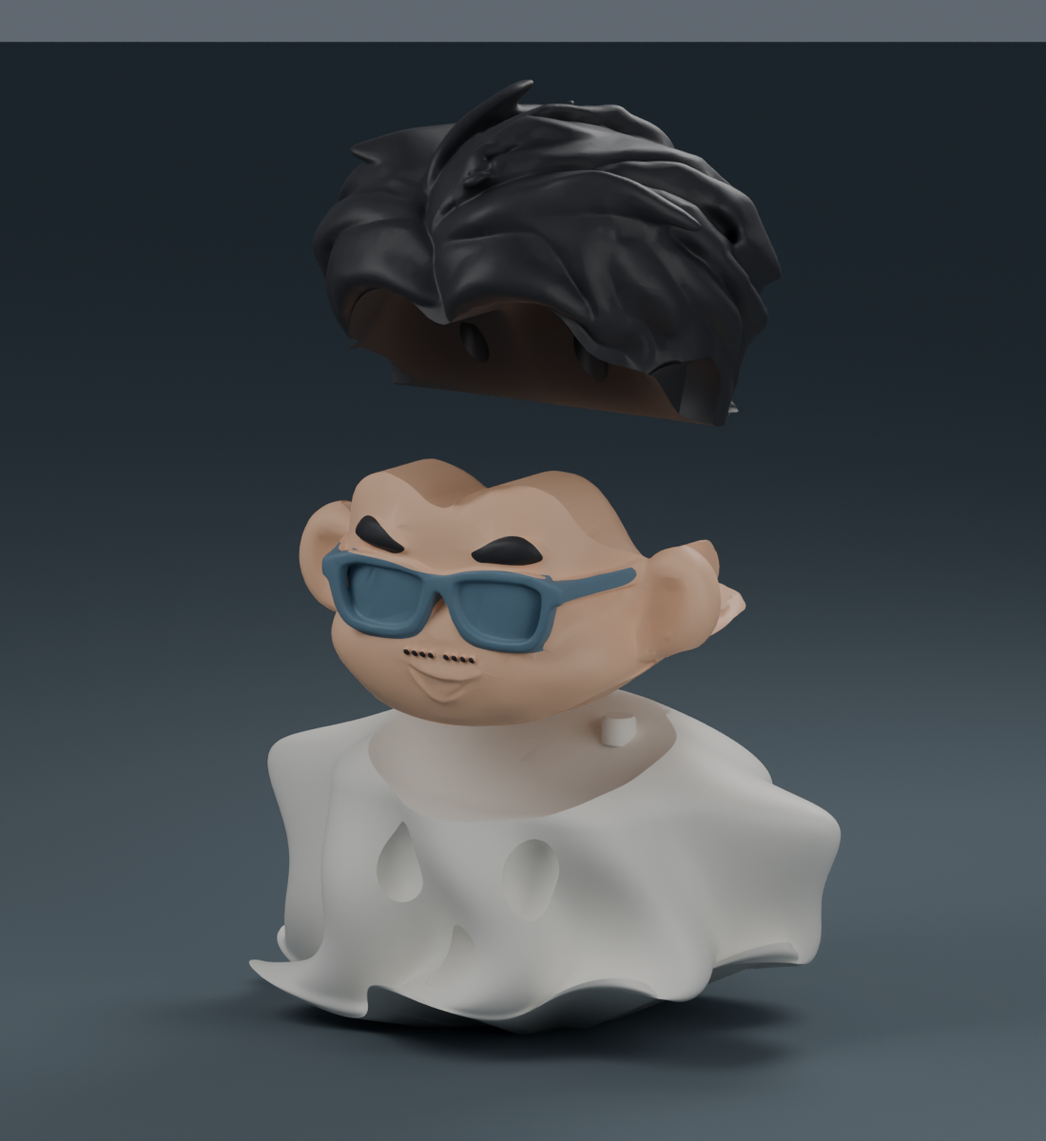
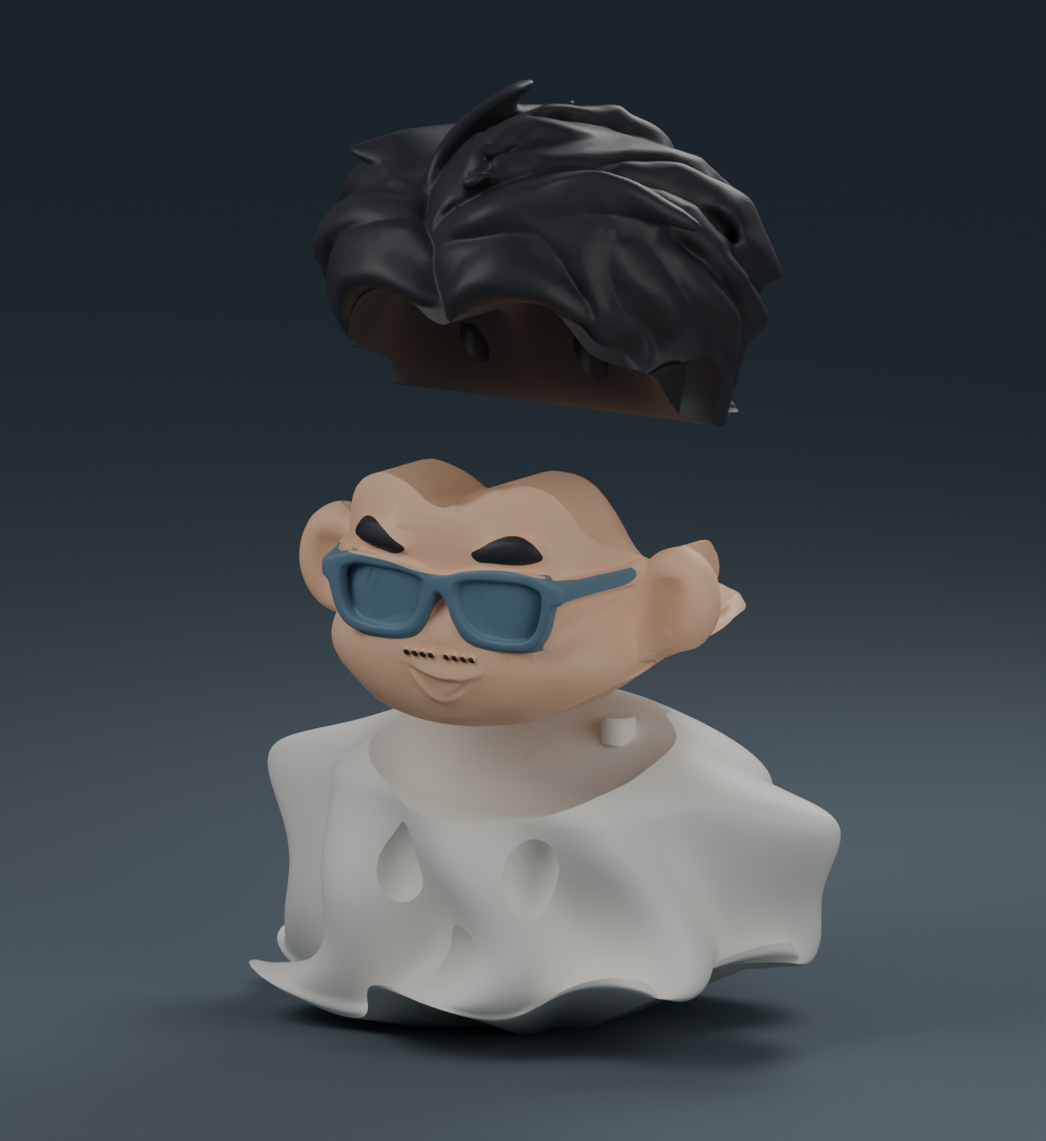
Remove render clipping bands and refresh preview image URLs

Changed region(s): [[0.0, 0.0, 1.0, 0.0617]]

diff --git a/HelloKitty_組裝說明.html b/HelloKitty_組裝說明.html
@@ -1,1 +1,1 @@
-<!doctype html><html lang="zh-Hant"><head><meta charset="utf-8"><meta name="viewport" content="width=device-width,initial-scale=1"><title>Hello Kitty 造型小陳晉｜三件組裝</title><link rel="stylesheet" href="store.css"><style>main{max-width:1120px;padding:36px 24px 60px}h1{font-family:var(--serif);font-size:38px;line-height:1.5}.preview{display:grid;grid-template-columns:1fr 1fr;gap:24px;margin:28px 0}figure{margin:0}figure img{width:100%;border-radius:12px}figcaption{font-size:13px;padding:12px 0}.options{background:#e9ecdf;padding:25px;margin:30px 0}.files{display:grid;grid-template-columns:repeat(3,1fr);gap:20px}article{background:white;border-radius:12px;overflow:hidden}article img{width:100%}article>div{padding:20px}h3{font-size:17px}article p{font-size:13px}.notes{max-width:75ch;margin:36px 0}@media(max-width:760px){h1{font-size:28px}.preview,.files{grid-template-columns:1fr}}</style></head><body><main><a href="index.html">← 返回作品總覽</a><h1>Hello Kitty 造型的小陳晉。</h1><p>黑色頭髮加白色貓耳、黃上衣與藍吊帶裝，保留熟悉的臉。高約 10 公分，三件組裝。</p><section class="preview"><figure><img src="assets/hello_kitty_100mm/ears-assembled.png" alt="Hello Kitty 造型小陳晉實際模型"><figcaption>原配色的實際模型渲染。省時版需自行補色，圖片不代表單色檔會自動呈現多色。</figcaption></figure><figure><img src="assets/hello_kitty_100mm/ears-exploded.png" alt="身體、臉與黑髮與貓耳三件分解"><figcaption>身體 → 臉 → 黑髮與貓耳。既有的原色三件版臉部可沿用。</figcaption></figure></section><section class="options"><h2>選一種列印方式</h2><p><strong>保留原配色：01＋02＋03，約 26 小時 49 分。</strong>三張盤都需要多色列印與擦料塔。</p><p><strong>省時、自己補色：04＋02＋05，約 12 小時 9 分。</strong>身體與頭髮與貓耳單色印出；只有臉盤換色。</p><p>已有臉部時，單印 04＋05 約 5 小時 5 分。每個零件只選一種版本即可。</p></section><h2>模型下載</h2><div class="files"><article><img src="assets/hello_kitty_100mm/ears-plate_01.png" alt="01_吊帶裝與手腳_三色合印.3mf實際列印方向"><div><h3>吊帶裝與手腳_三色合印.3mf</h3><p>白色手腳、藍色吊帶裝與黃色上衣，三色印成一件。</p><p>約 13 小時 8 分 · 241.04 g</p><a class="primary" href="HelloKitty_01_%E5%90%8A%E5%B8%B6%E8%A3%9D%E8%88%87%E6%89%8B%E8%85%B3_%E4%B8%89%E8%89%B2%E5%90%88%E5%8D%B0.3mf" download>下載 3MF</a></div></article><article><img src="assets/hello_kitty_100mm/ears-plate_02.png" alt="02_臉_原色三色合印.3mf實際列印方向"><div><h3>臉_原色三色合印.3mf</h3><p>膚色臉、黑色眉毛與小鬍子、藍灰色眼鏡，三色印成一件。可沿用原色三件版的臉。</p><p>約 7 小時 4 分 · 116.55 g</p><a class="primary" href="HelloKitty_02_%E8%87%89_%E5%8E%9F%E8%89%B2%E4%B8%89%E8%89%B2%E5%90%88%E5%8D%B0.3mf" download>下載 3MF</a></div></article><article><img src="assets/hello_kitty_100mm/ears-plate_03.png" alt="03_黑髮與貓耳_兩色合印.3mf實際列印方向"><div><h3>黑髮與貓耳_兩色合印.3mf</h3><p>原本黑色頭髮與白色貓耳，兩色印成一件。</p><p>約 6 小時 37 分 · 105.63 g</p><a class="primary" href="HelloKitty_03_%E9%BB%91%E9%AB%AE%E8%88%87%E8%B2%93%E8%80%B3_%E5%85%A9%E8%89%B2%E5%90%88%E5%8D%B0.3mf" download>下載 3MF</a></div></article><article><img src="assets/hello_kitty_100mm/ears-plate_04.png" alt="04_吊帶裝與手腳_省時單色版.3mf實際列印方向"><div><h3>吊帶裝與手腳_省時單色版.3mf</h3><p>取代 01：整件以藍色印出。白色手腳、鈕扣與黃色上衣需自行補色。</p><p>約 1 小時 40 分 · 23.79 g</p><a class="primary" href="HelloKitty_04_%E5%90%8A%E5%B8%B6%E8%A3%9D%E8%88%87%E6%89%8B%E8%85%B3_%E7%9C%81%E6%99%82%E5%96%AE%E8%89%B2%E7%89%88.3mf" download>下載 3MF</a></div></article><article><img src="assets/hello_kitty_100mm/ears-plate_05.png" alt="05_黑髮與貓耳_省時單色版.3mf實際列印方向"><div><h3>黑髮與貓耳_省時單色版.3mf</h3><p>取代 03：整件以黑色印出。白色貓耳需自行補色。</p><p>約 3 小時 25 分 · 42.56 g</p><a class="primary" href="HelloKitty_05_%E9%BB%91%E9%AB%AE%E8%88%87%E8%B2%93%E8%80%B3_%E7%9C%81%E6%99%82%E5%96%AE%E8%89%B2%E7%89%88.3mf" download>下載 3MF</a></div></article></div><section class="notes"><h2>組裝與列印</h2><p>零件冷卻後拆除支撐並清理定位孔，臉對準身體定位榫向下放入，再將黑髮與貓耳向下放入。先試配，確認順暢再少量點膠。</p><p>範例設定：Bambu Lab X1 Carbon／0.4 mm／PLA／0.16 mm 層高。每張多色盤最多三種耗材，請按顏色對應自己的 AMS 槽位。時間含清料與支撐，不含換盤、清理、上色及組裝。</p><p>模型與五盤切片檢查已通過，尚未實體試印。圖片直接來自模型；列印方向圖未顯示支撐與擦料塔。</p></section></main></body></html>
+<!doctype html><html lang="zh-Hant"><head><meta charset="utf-8"><meta name="viewport" content="width=device-width,initial-scale=1"><title>Hello Kitty 造型小陳晉｜三件組裝</title><link rel="stylesheet" href="store.css"><style>main{max-width:1120px;padding:36px 24px 60px}h1{font-family:var(--serif);font-size:38px;line-height:1.5}.preview{display:grid;grid-template-columns:1fr 1fr;gap:24px;margin:28px 0}figure{margin:0}figure img{width:100%;border-radius:12px}figcaption{font-size:13px;padding:12px 0}.options{background:#e9ecdf;padding:25px;margin:30px 0}.files{display:grid;grid-template-columns:repeat(3,1fr);gap:20px}article{background:white;border-radius:12px;overflow:hidden}article img{width:100%}article>div{padding:20px}h3{font-size:17px}article p{font-size:13px}.notes{max-width:75ch;margin:36px 0}@media(max-width:760px){h1{font-size:28px}.preview,.files{grid-template-columns:1fr}}</style></head><body><main><a href="index.html">← 返回作品總覽</a><h1>Hello Kitty 造型的小陳晉。</h1><p>黑色頭髮加白色貓耳、黃上衣與藍吊帶裝，保留熟悉的臉。高約 10 公分，三件組裝。</p><section class="preview"><figure><img src="assets/hello_kitty_100mm/ears-assembled.png" alt="Hello Kitty 造型小陳晉實際模型"><figcaption>原配色的實際模型渲染。省時版需自行補色，圖片不代表單色檔會自動呈現多色。</figcaption></figure><figure><img src="assets/hello_kitty_100mm/ears-studio-exploded.png" alt="身體、臉與黑髮與貓耳三件分解"><figcaption>身體 → 臉 → 黑髮與貓耳。既有的原色三件版臉部可沿用。</figcaption></figure></section><section class="options"><h2>選一種列印方式</h2><p><strong>保留原配色：01＋02＋03，約 26 小時 49 分。</strong>三張盤都需要多色列印與擦料塔。</p><p><strong>省時、自己補色：04＋02＋05，約 12 小時 9 分。</strong>身體與頭髮與貓耳單色印出；只有臉盤換色。</p><p>已有臉部時，單印 04＋05 約 5 小時 5 分。每個零件只選一種版本即可。</p></section><h2>模型下載</h2><div class="files"><article><img src="assets/hello_kitty_100mm/ears-plate_01.png" alt="01_吊帶裝與手腳_三色合印.3mf實際列印方向"><div><h3>吊帶裝與手腳_三色合印.3mf</h3><p>白色手腳、藍色吊帶裝與黃色上衣，三色印成一件。</p><p>約 13 小時 8 分 · 241.04 g</p><a class="primary" href="HelloKitty_01_%E5%90%8A%E5%B8%B6%E8%A3%9D%E8%88%87%E6%89%8B%E8%85%B3_%E4%B8%89%E8%89%B2%E5%90%88%E5%8D%B0.3mf" download>下載 3MF</a></div></article><article><img src="assets/hello_kitty_100mm/ears-plate_02.png" alt="02_臉_原色三色合印.3mf實際列印方向"><div><h3>臉_原色三色合印.3mf</h3><p>膚色臉、黑色眉毛與小鬍子、藍灰色眼鏡，三色印成一件。可沿用原色三件版的臉。</p><p>約 7 小時 4 分 · 116.55 g</p><a class="primary" href="HelloKitty_02_%E8%87%89_%E5%8E%9F%E8%89%B2%E4%B8%89%E8%89%B2%E5%90%88%E5%8D%B0.3mf" download>下載 3MF</a></div></article><article><img src="assets/hello_kitty_100mm/ears-plate_03.png" alt="03_黑髮與貓耳_兩色合印.3mf實際列印方向"><div><h3>黑髮與貓耳_兩色合印.3mf</h3><p>原本黑色頭髮與白色貓耳，兩色印成一件。</p><p>約 6 小時 37 分 · 105.63 g</p><a class="primary" href="HelloKitty_03_%E9%BB%91%E9%AB%AE%E8%88%87%E8%B2%93%E8%80%B3_%E5%85%A9%E8%89%B2%E5%90%88%E5%8D%B0.3mf" download>下載 3MF</a></div></article><article><img src="assets/hello_kitty_100mm/ears-plate_04.png" alt="04_吊帶裝與手腳_省時單色版.3mf實際列印方向"><div><h3>吊帶裝與手腳_省時單色版.3mf</h3><p>取代 01：整件以藍色印出。白色手腳、鈕扣與黃色上衣需自行補色。</p><p>約 1 小時 40 分 · 23.79 g</p><a class="primary" href="HelloKitty_04_%E5%90%8A%E5%B8%B6%E8%A3%9D%E8%88%87%E6%89%8B%E8%85%B3_%E7%9C%81%E6%99%82%E5%96%AE%E8%89%B2%E7%89%88.3mf" download>下載 3MF</a></div></article><article><img src="assets/hello_kitty_100mm/ears-plate_05.png" alt="05_黑髮與貓耳_省時單色版.3mf實際列印方向"><div><h3>黑髮與貓耳_省時單色版.3mf</h3><p>取代 03：整件以黑色印出。白色貓耳需自行補色。</p><p>約 3 小時 25 分 · 42.56 g</p><a class="primary" href="HelloKitty_05_%E9%BB%91%E9%AB%AE%E8%88%87%E8%B2%93%E8%80%B3_%E7%9C%81%E6%99%82%E5%96%AE%E8%89%B2%E7%89%88.3mf" download>下載 3MF</a></div></article></div><section class="notes"><h2>組裝與列印</h2><p>零件冷卻後拆除支撐並清理定位孔，臉對準身體定位榫向下放入，再將黑髮與貓耳向下放入。先試配，確認順暢再少量點膠。</p><p>範例設定：Bambu Lab X1 Carbon／0.4 mm／PLA／0.16 mm 層高。每張多色盤最多三種耗材，請按顏色對應自己的 AMS 槽位。時間含清料與支撐，不含換盤、清理、上色及組裝。</p><p>模型與五盤切片檢查已通過，尚未實體試印。圖片直接來自模型；列印方向圖未顯示支撐與擦料塔。</p></section></main></body></html>

diff --git a/粽子三件原色_組裝說明.html b/粽子三件原色_組裝說明.html
@@ -2,7 +2,7 @@
 <html lang="zh-Hant"><head><meta charset="utf-8"/><meta content="width=device-width,initial-scale=1" name="viewport"/><title>可愛陳晉｜原色三件組裝版</title><style>
 *{box-sizing:border-box}body{margin:0;background:#f5f4ee;color:#213d33;font-family:-apple-system,BlinkMacSystemFont,"PingFang TC",sans-serif;line-height:1.75}main{max-width:1120px;margin:auto;padding:42px 24px 65px}h1{font-size:clamp(32px,5vw,52px);letter-spacing:-.03em;line-height:1.2;margin:8px 0 16px}h2{font-size:26px;margin:34px 0 14px}h3{font-size:24px;margin:4px 0 10px}p{margin:9px 0}.eyebrow{font-size:13px;letter-spacing:.13em;color:#627e6f}.lead{font-size:19px}.palette{display:flex;gap:14px;flex-wrap:wrap;margin:24px 0}.chip{display:flex;align-items:center;gap:9px;background:white;padding:7px 14px;border-radius:25px}.swatch{width:18px;height:18px;border-radius:50%;border:1px solid #0001}.hero{display:grid;grid-template-columns:1fr 1fr;gap:18px}figure{margin:0;border-radius:18px;overflow:hidden;background:white}figure img{display:block;width:100%}figcaption{padding:14px 20px;color:#627569;font-size:14px}.grid{display:grid;grid-template-columns:repeat(3,1fr);gap:18px}article{background:white;border-radius:18px;overflow:hidden}article img{width:100%;display:block}.cardbody{padding:20px}.number,.muted{font-size:14px;color:#627569}a{color:#2c6650}.button{display:inline-block;background:#2c6650;color:white;text-decoration:none;padding:10px 15px;border-radius:9px}.note{padding:22px 26px;background:#e4ecdf;border-radius:14px;margin:24px 0}.steps{padding:18px 26px;background:white;border-radius:14px}li{margin:10px 0}footer{margin-top:30px;padding-top:20px;border-top:1px solid #d6dfd2}@media(max-width:760px){main{padding:28px 16px}.hero,.grid{grid-template-columns:1fr}}
 </style><meta content="可愛粽子與萬聖節南瓜小陳晉：3D 列印模型、分件組裝說明與 Bambu X1 Carbon 範例設定。" name="description"/></head><body><main><nav aria-label="主要導覽" style="display:flex;gap:20px;flex-wrap:wrap;margin-bottom:24px;font-size:14px"><a href="index.html">作品總覽</a><a href="https://github.com/zyyuy0u/3d-xiao-chenjin">GitHub 原始檔</a></nav><div class="eyebrow">可愛陳晉 · ORIGINAL COLORS / THREE PIECES</div><h1>原本的顏色，三件組裝。</h1><p class="lead">臉、頭髮、粽子身體。成品高約 10 公分，眼鏡與五官直接和彩色臉印成一件。</p><div class="palette"><span class="chip"><i class="swatch" style="background:#438D69"></i>綠色粽葉</span><span class="chip"><i class="swatch" style="background:#F5C39E"></i>膚色臉</span><span class="chip"><i class="swatch" style="background:#27272B"></i>黑色頭髮與五官</span><span class="chip"><i class="swatch" style="background:#607F92"></i>藍灰色眼鏡</span></div>
-<section class="hero"><figure><img alt="原色三件版組裝完成的實際模型" src="assets/zongzi_assembly_3parts_color_100mm/assembled.png"/><figcaption>本次實際模型與材料分區。四種原本顏色均保留，無需手工補色。</figcaption></figure><figure><img alt="只有粽子身體、臉、頭髮三個組裝零件" src="assets/zongzi_assembly_3parts_color_100mm/exploded.png"/><figcaption>只組裝三件：粽子身體 → 彩色臉 → 頭髮。定位榫與上一個三件版相同。</figcaption></figure></section>
+<section class="hero"><figure><img alt="原色三件版組裝完成的實際模型" src="assets/zongzi_assembly_3parts_color_100mm/assembled.png"/><figcaption>本次實際模型與材料分區。四種原本顏色均保留，無需手工補色。</figcaption></figure><figure><img alt="只有粽子身體、臉、頭髮三個組裝零件" src="assets/zongzi_assembly_3parts_color_100mm/studio-exploded.png"/><figcaption>只組裝三件：粽子身體 → 彩色臉 → 頭髮。定位榫與上一個三件版相同。</figcaption></figure></section>
 <div class="note"><strong>只有臉盤需要換色與擦料塔。</strong><p>粽子身體與頭髮各自單色列印；臉盤使用三色一起列印，需要 AMS／相容的多色列印設備。眼鏡、眉毛與小鬍子都連在臉上，不用黏小配件。</p></div>
 <h2>三個檔案，分三盤列印</h2><p>每次以「專案」開啟一份 3MF，保留排好的方向。臉部正面朝上，三個材料區保留在同一物件中，請勿拆散排盤。</p><section class="grid"><article><img alt="粽子身體實際模型列印方向" src="assets/zongzi_assembly_3parts_color_100mm/plate_01.png"/><div class="cardbody"><span class="number">01</span><h3>粽子身體</h3><p>綠色。粽葉外形與下方定位榫，一盤單色列印。</p><p class="muted">約 3 小時 22 分 · 57.82 g</p><a class="button" download="" href="%E7%B2%BD%E5%AD%90%E4%B8%89%E4%BB%B6%E5%8E%9F%E8%89%B2_01_%E7%B2%BD%E5%AD%90%E8%BA%AB%E9%AB%94_%E7%B6%A0%E8%89%B2.3mf">下載 3MF ↗</a></div></article><article><img alt="彩色臉實際模型列印方向" src="assets/zongzi_assembly_3parts_color_100mm/plate_02.png"/><div class="cardbody"><span class="number">02</span><h3>彩色臉</h3><p>膚色臉＋黑色眉毛與小鬍子＋藍灰色眼鏡。三色直接印成一件，不用黏五官。</p><p class="muted">約 7 小時 4 分 · 116.60 g</p><a class="button" download="" href="%E7%B2%BD%E5%AD%90%E4%B8%89%E4%BB%B6%E5%8E%9F%E8%89%B2_02_%E8%87%89_%E5%8E%9F%E8%89%B2%E4%B8%89%E8%89%B2%E5%90%88%E5%8D%B0.3mf">下載 3MF ↗</a></div></article><article><img alt="頭髮實際模型列印方向" src="assets/zongzi_assembly_3parts_color_100mm/plate_03.png"/><div class="cardbody"><span class="number">03</span><h3>頭髮</h3><p>黑色。完整髮型與底部定位孔，一盤單色列印。</p><p class="muted">約 2 小時 58 分 · 38.91 g</p><a class="button" download="" href="%E7%B2%BD%E5%AD%90%E4%B8%89%E4%BB%B6%E5%8E%9F%E8%89%B2_03_%E9%A0%AD%E9%AB%AE_%E9%BB%91%E8%89%B2.3mf">下載 3MF ↗</a></div></article></section>
 <div class="note"><strong>三盤總計約 13 小時 24 分 · 213.33 g</strong><p>X1 Carbon／0.4 mm 噴嘴／PLA／0.16 mm 層高。包含支撐、底邊、清料、擦料塔與起始流程；不含換盤、冷卻、清理與組裝。這是恢復多色後的新估計。</p><p>臉盤約 133 次中途換色。清料量沿用保守範例設定；實際耗材、機型與設定不同，時間會改變。</p></div>

diff --git a/萬聖節_組裝說明.html b/萬聖節_組裝說明.html
@@ -3,7 +3,7 @@
 *{box-sizing:border-box}body{margin:0;background:#faf1e4;color:#35251d;font-family:-apple-system,BlinkMacSystemFont,"PingFang TC",sans-serif;line-height:1.75}main{max-width:1120px;margin:auto;padding:42px 24px 65px}h1{font-size:clamp(32px,5vw,52px);letter-spacing:-.03em;line-height:1.2;margin:8px 0 16px}h2{font-size:26px;margin:34px 0 14px}h3{font-size:24px;margin:4px 0 10px}p{margin:9px 0}.eyebrow{font-size:13px;letter-spacing:.13em;color:#627e6f}.lead{font-size:19px}.palette{display:flex;gap:14px;flex-wrap:wrap;margin:24px 0}.chip{display:flex;align-items:center;gap:9px;background:white;padding:7px 14px;border-radius:25px}.swatch{width:18px;height:18px;border-radius:50%;border:1px solid #0001}.hero{display:grid;grid-template-columns:1fr 1fr;gap:18px}figure{margin:0;border-radius:18px;overflow:hidden;background:white}figure img{display:block;width:100%}figcaption{padding:14px 20px;color:#627569;font-size:14px}.grid{display:grid;grid-template-columns:repeat(3,1fr);gap:18px}article{background:white;border-radius:18px;overflow:hidden}article img{width:100%;display:block}.cardbody{padding:20px}.number,.muted{font-size:14px;color:#627569}a{color:#9b4e19}.button{display:inline-block;background:#9b4e19;color:white;text-decoration:none;padding:10px 15px;border-radius:9px}.note{padding:22px 26px;background:#f2dfc3;border-radius:14px;margin:24px 0}.steps{padding:18px 26px;background:white;border-radius:14px}li{margin:10px 0}footer{margin-top:30px;padding-top:20px;border-top:1px solid #d6dfd2}@media(max-width:760px){main{padding:28px 16px}.hero,.grid{grid-template-columns:1fr}}
 </style><meta content="可愛粽子與萬聖節南瓜小陳晉：3D 列印模型、分件組裝說明與 Bambu X1 Carbon 範例設定。" name="description"/></head><body><main><nav aria-label="主要導覽" style="display:flex;gap:20px;flex-wrap:wrap;margin-bottom:24px;font-size:14px"><a href="index.html">作品總覽</a><a href="https://github.com/zyyuy0u/3d-xiao-chenjin">GitHub 原始檔</a></nav><div class="eyebrow">小陳晉 · HALLOWEEN EDITION</div><h1>換上南瓜裝，過萬聖節。</h1><p class="lead">立體瓜瓣、三角眼與鋸齒笑嘴。熟悉的臉、眼鏡與髮型都保留，高約 10 公分，仍然只組裝三件。</p>
 <div class="palette"><span class="chip"><i class="swatch" style="background:#F28A24"></i>橘色南瓜</span><span class="chip"><i class="swatch" style="background:#F5C39E"></i>膚色臉</span><span class="chip"><i class="swatch" style="background:#27272B"></i>黑色頭髮與五官</span><span class="chip"><i class="swatch" style="background:#607F92"></i>藍灰色眼鏡</span></div>
-<section class="hero"><figure><img alt="萬聖節南瓜公仔實際模型" src="assets/halloween_pumpkin_100mm/assembled.png"/><figcaption>本次實際模型。南瓜的眼睛和嘴巴是凹刻，深淺來自陰影，整件只用橘色。</figcaption></figure><figure><img alt="南瓜、彩色臉與頭髮三件分解圖" src="assets/halloween_pumpkin_100mm/exploded.png"/><figcaption>南瓜身體 → 彩色臉 → 頭髮。定位榫沿用原色三件版，先試裝，再少量點膠固定。</figcaption></figure></section>
+<section class="hero"><figure><img alt="萬聖節南瓜公仔實際模型" src="assets/halloween_pumpkin_100mm/assembled.png"/><figcaption>本次實際模型。南瓜的眼睛和嘴巴是凹刻，深淺來自陰影，整件只用橘色。</figcaption></figure><figure><img alt="南瓜、彩色臉與頭髮三件分解圖" src="assets/halloween_pumpkin_100mm/studio-exploded.png"/><figcaption>南瓜身體 → 彩色臉 → 頭髮。定位榫沿用原色三件版，先試裝，再少量點膠固定。</figcaption></figure></section>
 <div class="note"><strong>已經有原色三件版？只換南瓜就好。</strong><p>臉和頭髮使用相同模型與接點；已有的零件可沿用。只加印南瓜約 <strong>3 小時 14 分</strong>、48.82 g，沒有中途換色或擦料塔。實際接合仍請先試配。</p></div>
 <h2>三個零件，分三盤印</h2><p>以「專案」開啟 3MF，保留列印方向。只有彩色臉盤需要三色列印與擦料塔，南瓜、頭髮各自單色。</p><section class="grid"><article><img alt="南瓜身體實際列印方向" src="assets/halloween_pumpkin_100mm/plate_01.png"/><div class="cardbody"><span class="number">01</span><h3>南瓜身體</h3><p>橘色南瓜，凹刻三角眼與鋸齒笑嘴。整件只用橘色，凹槽由陰影呈現深淺。</p><p class="muted">約 3 小時 14 分 · 48.82 g</p><a class="button" download="" href="%E8%90%AC%E8%81%96%E7%AF%80_01_%E5%8D%97%E7%93%9C%E8%BA%AB%E9%AB%94_%E6%A9%98%E8%89%B2.3mf">下載 3MF ↗</a></div></article><article><img alt="彩色臉實際列印方向" src="assets/halloween_pumpkin_100mm/plate_02.png"/><div class="cardbody"><span class="number">02</span><h3>彩色臉</h3><p>保留膚色臉、黑色眉毛與小鬍子、藍灰色眼鏡。三色共同列印成一件。</p><p class="muted">約 7 小時 4 分 · 116.59 g</p><a class="button" download="" href="%E8%90%AC%E8%81%96%E7%AF%80_02_%E8%87%89_%E5%8E%9F%E8%89%B2%E4%B8%89%E8%89%B2%E5%90%88%E5%8D%B0.3mf">下載 3MF ↗</a></div></article><article><img alt="頭髮實際列印方向" src="assets/halloween_pumpkin_100mm/plate_03.png"/><div class="cardbody"><span class="number">03</span><h3>頭髮</h3><p>保留原髮型與黑色，一盤單色列印。</p><p class="muted">約 2 小時 59 分 · 38.92 g</p><a class="button" download="" href="%E8%90%AC%E8%81%96%E7%AF%80_03_%E9%A0%AD%E9%AB%AE_%E9%BB%91%E8%89%B2.3mf">下載 3MF ↗</a></div></article></section>
 <div class="note"><strong>整套約 13 小時 16 分 · 204.33 g</strong><p>X1 Carbon／0.4 mm 噴嘴／PLA／0.16 mm 層高。含支撐、底邊、清料、擦料塔與起始流程；不含換盤、冷卻、清理與組裝。圖片未顯示列印輔助物，使用其他設備或耗材請重新切片。</p></div>

diff --git a/幽靈_組裝說明.html b/幽靈_組裝說明.html
@@ -3,7 +3,7 @@
 *{box-sizing:border-box}body{margin:0;background:#faf1e4;color:#35251d;font-family:-apple-system,BlinkMacSystemFont,"PingFang TC",sans-serif;line-height:1.75}main{max-width:1120px;margin:auto;padding:42px 24px 65px}h1{font-size:clamp(32px,5vw,52px);letter-spacing:-.03em;line-height:1.2;margin:8px 0 16px}h2{font-size:26px;margin:34px 0 14px}h3{font-size:24px;margin:4px 0 10px}p{margin:9px 0}.eyebrow{font-size:13px;letter-spacing:.13em;color:#627e6f}.lead{font-size:19px}.palette{display:flex;gap:14px;flex-wrap:wrap;margin:24px 0}.chip{display:flex;align-items:center;gap:9px;background:white;padding:7px 14px;border-radius:25px}.swatch{width:18px;height:18px;border-radius:50%;border:1px solid #0001}.hero{display:grid;grid-template-columns:1fr 1fr;gap:18px}figure{margin:0;border-radius:18px;overflow:hidden;background:white}figure img{display:block;width:100%}figcaption{padding:14px 20px;color:#627569;font-size:14px}.grid{display:grid;grid-template-columns:repeat(3,1fr);gap:18px}article{background:white;border-radius:18px;overflow:hidden}article img{width:100%;display:block}.cardbody{padding:20px}.number,.muted{font-size:14px;color:#627569}a{color:#9b4e19}.button{display:inline-block;background:#9b4e19;color:white;text-decoration:none;padding:10px 15px;border-radius:9px}.note{padding:22px 26px;background:#f2dfc3;border-radius:14px;margin:24px 0}.steps{padding:18px 26px;background:white;border-radius:14px}li{margin:10px 0}footer{margin-top:30px;padding-top:20px;border-top:1px solid #d6dfd2}@media(max-width:760px){main{padding:28px 16px}.hero,.grid{grid-template-columns:1fr}}
 </style></head><body><main><a href="%E5%B9%BD%E9%9D%88_%E7%89%88%E6%9C%AC%E6%AF%94%E8%BC%83.html" style="display:inline-block;margin-bottom:20px">查看波紋飄逸版對照 ↗</a><a href="index.html" style="display:inline-block;margin-bottom:24px">← 返回模型商店</a><div class="eyebrow">小陳晉 · HALLOWEEN EDITION</div><h1>幽靈小陳晉，輕輕飄來。</h1><p class="lead">加深的流動波紋、不對稱飄起的下襬與連續袖角。熟悉的臉、眼鏡與髮型都保留，高約 10 公分，仍然只組裝三件。</p>
 <div class="palette"><span class="chip"><i class="swatch" style="background:#F3F0E7"></i>白色幽靈</span><span class="chip"><i class="swatch" style="background:#F5C39E"></i>膚色臉</span><span class="chip"><i class="swatch" style="background:#27272B"></i>黑色頭髮與五官</span><span class="chip"><i class="swatch" style="background:#607F92"></i>藍灰色眼鏡</span></div>
-<section class="hero"><figure><img alt="萬聖節幽靈公仔實際模型" src="assets/ghost_100mm/assembled.png"/><figcaption>本次實際模型。幽靈的眼睛和嘴巴是凹刻，深淺來自陰影，整件只用白色。</figcaption></figure><figure><img alt="幽靈、彩色臉與頭髮三件分解圖" src="assets/ghost_100mm/exploded.png"/><figcaption>幽靈身體 → 彩色臉 → 頭髮。定位榫沿用原色三件版，先試裝，再少量點膠固定。</figcaption></figure></section>
+<section class="hero"><figure><img alt="萬聖節幽靈公仔實際模型" src="assets/ghost_100mm/assembled.png"/><figcaption>本次實際模型。幽靈的眼睛和嘴巴是凹刻，深淺來自陰影，整件只用白色。</figcaption></figure><figure><img alt="幽靈、彩色臉與頭髮三件分解圖" src="assets/ghost_100mm/studio-exploded.png"/><figcaption>幽靈身體 → 彩色臉 → 頭髮。定位榫沿用原色三件版，先試裝，再少量點膠固定。</figcaption></figure></section>
 <div class="note"><strong>已經有原色三件版？只換幽靈就好。</strong><p>臉和頭髮使用相同模型與接點；已有的零件可沿用。只加印幽靈約 <strong>4 小時 18 分</strong>、54.59 g，沒有中途換色或擦料塔。實際接合仍請先試配。</p></div>
 <h2>三個零件，分三盤印</h2><p>以「專案」開啟 3MF，保留列印方向。只有彩色臉盤需要三色列印與擦料塔，幽靈、頭髮各自單色。</p><section class="grid"><article><img alt="幽靈身體實際列印方向" src="assets/ghost_100mm/plate_01.png"/><div class="cardbody"><span class="number">01</span><h3>幽靈身體</h3><p>白色幽靈，凹刻橢圓眼睛與驚喜小嘴。整件只用白色，凹槽由陰影呈現深淺。</p><p class="muted">約 4 小時 18 分 · 54.59 g</p><a class="button" href="%E5%B9%BD%E9%9D%88_01_%E5%B9%BD%E9%9D%88%E8%BA%AB%E9%AB%94_%E7%99%BD%E8%89%B2.3mf">開啟 3MF ↗</a></div></article><article><img alt="彩色臉實際列印方向" src="assets/ghost_100mm/plate_02.png"/><div class="cardbody"><span class="number">02</span><h3>彩色臉</h3><p>保留膚色臉、黑色眉毛與小鬍子、藍灰色眼鏡。三色共同列印成一件。</p><p class="muted">約 7 小時 4 分 · 116.56 g</p><a class="button" href="%E5%B9%BD%E9%9D%88_02_%E8%87%89_%E5%8E%9F%E8%89%B2%E4%B8%89%E8%89%B2%E5%90%88%E5%8D%B0.3mf">開啟 3MF ↗</a></div></article><article><img alt="頭髮實際列印方向" src="assets/ghost_100mm/plate_03.png"/><div class="cardbody"><span class="number">03</span><h3>頭髮</h3><p>保留原髮型與黑色，一盤單色列印。</p><p class="muted">約 2 小時 58 分 · 38.88 g</p><a class="button" href="%E5%B9%BD%E9%9D%88_03_%E9%A0%AD%E9%AB%AE_%E9%BB%91%E8%89%B2.3mf">開啟 3MF ↗</a></div></article></section>
 <div class="note"><strong>整套約 14 小時 20 分 · 210.03 g</strong><p>X1 Carbon／0.4 mm 噴嘴／PLA／0.16 mm 層高。含支撐、底邊、清料、擦料塔與起始流程；不含換盤、冷卻、清理與組裝。圖片未顯示列印輔助物，使用其他設備或耗材請重新切片。</p></div>

diff --git a/粽子單件單色_模型預覽.html b/粽子單件單色_模型預覽.html
@@ -1,2 +1,2 @@
 <!DOCTYPE html>
-<html lang="zh-Hant"><head><meta charset="utf-8"/><meta content="width=device-width,initial-scale=1" name="viewport"/><title>Q 版粽子人物 · 100 mm</title><style>body{font:16px/1.65 system-ui;background:#edf2ee;color:#20372d;margin:0}main{max-width:1240px;margin:auto;padding:30px}h1{font-size:28px}section{display:grid;grid-template-columns:repeat(3,1fr);gap:18px}figure{margin:0;background:white;border-radius:12px;overflow:hidden}img{display:block;width:100%;height:auto}figcaption{padding:12px 16px}a{color:#1c6849}.links{display:flex;gap:18px;flex-wrap:wrap;padding:20px 0}small{color:#557063}@media(max-width:760px){section{grid-template-columns:1fr}}</style><main><nav aria-label="主要導覽" style="display:flex;gap:20px;flex-wrap:wrap;margin-bottom:24px;font-size:14px"><a href="index.html">作品總覽</a><a href="https://github.com/zyyuy0u/3d-xiao-chenjin">GitHub 原始檔</a></nav><h1>Q 版粽子人物 · 100 mm</h1><p>取自原圖中央角色：大鏡框、翹髮、八點鬍子、笑嘴與交疊粽葉。底部做平，無獨立底座。</p><section><figure><img alt="實際單色模型正面" src="assets/zongzi_100mm/front.png"/><figcaption>正面 · 實際網格</figcaption></figure><figure><img alt="實際單色模型側前方" src="assets/zongzi_100mm/three_quarter.png"/><figcaption>側前方 · 實際網格</figcaption></figure><figure><img alt="實際單色模型背面" src="assets/zongzi_100mm/back.png"/><figcaption>背面 · 實際網格</figcaption></figure></section><p>以上為實際三維幾何渲染。檔案是單一實體，適合單色列印後上色；沒有預先配置多色材料分區。背面包含依造型推定的形狀。</p><div class="links"><a download="" href="%E7%B2%BD%E5%AD%90%E5%96%AE%E4%BB%B6%E5%96%AE%E8%89%B2_01_Q%E7%89%88%E7%B2%BD%E5%AD%90%E4%BA%BA%E7%89%A9_100mm_%E9%80%9A%E7%94%A8%E6%A8%A1%E5%9E%8B.3mf">通用 3MF</a><a download="" href="%E7%B2%BD%E5%AD%90%E5%96%AE%E4%BB%B6%E5%96%AE%E8%89%B2_02_Q%E7%89%88%E7%B2%BD%E5%AD%90%E4%BA%BA%E7%89%A9_100mm_X1C_PLA_%E6%94%AF%E6%92%90%E8%A8%AD%E5%AE%9A.3mf">Bambu X1C 範例</a><a href="docs/zongzi_100mm/%E5%88%97%E5%8D%B0%E8%AA%AA%E6%98%8E.txt">列印說明</a></div><p><small>立體參考由內建 image_gen 產生，完整及已保留。彩色參考圖不代表已設定多色列印。尚未實體試印。</small></p></main><meta content="可愛粽子與萬聖節南瓜小陳晉：3D 列印模型、分件組裝說明與 Bambu X1 Carbon 範例設定。" name="description"/></head></html>
+<html lang="zh-Hant"><head><meta charset="utf-8"/><meta content="width=device-width,initial-scale=1" name="viewport"/><title>Q 版粽子人物 · 100 mm</title><style>body{font:16px/1.65 system-ui;background:#edf2ee;color:#20372d;margin:0}main{max-width:1240px;margin:auto;padding:30px}h1{font-size:28px}section{display:grid;grid-template-columns:repeat(3,1fr);gap:18px}figure{margin:0;background:white;border-radius:12px;overflow:hidden}img{display:block;width:100%;height:auto}figcaption{padding:12px 16px}a{color:#1c6849}.links{display:flex;gap:18px;flex-wrap:wrap;padding:20px 0}small{color:#557063}@media(max-width:760px){section{grid-template-columns:1fr}}</style><main><nav aria-label="主要導覽" style="display:flex;gap:20px;flex-wrap:wrap;margin-bottom:24px;font-size:14px"><a href="index.html">作品總覽</a><a href="https://github.com/zyyuy0u/3d-xiao-chenjin">GitHub 原始檔</a></nav><h1>Q 版粽子人物 · 100 mm</h1><p>取自原圖中央角色：大鏡框、翹髮、八點鬍子、笑嘴與交疊粽葉。底部做平，無獨立底座。</p><section><figure><img alt="實際單色模型正面" src="assets/zongzi_100mm/studio-front.png"/><figcaption>正面 · 實際網格</figcaption></figure><figure><img alt="實際單色模型側前方" src="assets/zongzi_100mm/studio-three_quarter.png"/><figcaption>側前方 · 實際網格</figcaption></figure><figure><img alt="實際單色模型背面" src="assets/zongzi_100mm/studio-back.png"/><figcaption>背面 · 實際網格</figcaption></figure></section><p>以上為實際三維幾何渲染。檔案是單一實體，適合單色列印後上色；沒有預先配置多色材料分區。背面包含依造型推定的形狀。</p><div class="links"><a download="" href="%E7%B2%BD%E5%AD%90%E5%96%AE%E4%BB%B6%E5%96%AE%E8%89%B2_01_Q%E7%89%88%E7%B2%BD%E5%AD%90%E4%BA%BA%E7%89%A9_100mm_%E9%80%9A%E7%94%A8%E6%A8%A1%E5%9E%8B.3mf">通用 3MF</a><a download="" href="%E7%B2%BD%E5%AD%90%E5%96%AE%E4%BB%B6%E5%96%AE%E8%89%B2_02_Q%E7%89%88%E7%B2%BD%E5%AD%90%E4%BA%BA%E7%89%A9_100mm_X1C_PLA_%E6%94%AF%E6%92%90%E8%A8%AD%E5%AE%9A.3mf">Bambu X1C 範例</a><a href="docs/zongzi_100mm/%E5%88%97%E5%8D%B0%E8%AA%AA%E6%98%8E.txt">列印說明</a></div><p><small>立體參考由內建 image_gen 產生，完整及已保留。彩色參考圖不代表已設定多色列印。尚未實體試印。</small></p></main><meta content="可愛粽子與萬聖節南瓜小陳晉：3D 列印模型、分件組裝說明與 Bambu X1 Carbon 範例設定。" name="description"/></head></html>

diff --git a/粽子單件四色_選色預覽.html b/粽子單件四色_選色預覽.html
@@ -15,10 +15,10 @@
 <div class="card"><div class="swatch" style="background:#27272B"></div><strong>03 頭髮</strong><small>包含眉毛與小鬍子</small></div>
 <div class="card"><div class="swatch" style="background:#607F92"></div><strong>04 眼鏡</strong><small>鏡框與實心鏡片一起選色</small></div>
 </div>
-<div class="gallery"><figure><img alt="四區分色模型的正面渲染" src="assets/zongzi_multicolor_100mm/front.png"/><figcaption>正面 · 範例配色，可在 Bambu Studio 更換</figcaption></figure><figure><img alt="四區分色模型的斜側面渲染" src="assets/zongzi_multicolor_100mm/three_quarter.png"/><figcaption>斜側面 · 實際 3D 零件渲染</figcaption></figure></div>
+<div class="gallery"><figure><img alt="四區分色模型的正面渲染" src="assets/zongzi_multicolor_100mm/studio-front.png"/><figcaption>正面 · 範例配色，可在 Bambu Studio 更換</figcaption></figure><figure><img alt="四區分色模型的斜側面渲染" src="assets/zongzi_multicolor_100mm/studio-three_quarter.png"/><figcaption>斜側面 · 實際 3D 零件渲染</figcaption></figure></div>
 <div class="steps"><h2 style="margin-top:0">在 Bambu Studio 選顏色</h2><ol><li>開啟 3MF 為「專案」，進入「準備」畫面。</li><li>左側切換到「物件」，展開粽子公仔，會看到四個零件。</li><li>點各零件旁的耗材編號，選擇想使用的線材；也可以讓多個區域共用同一個編號。</li><li>點左上方耗材色塊，設定與實際線材相符的顏色，再重新計算沖刷體積、切片。</li></ol></div>
 <p class="note">實際列印顏色取決於裝入的線材。此專案用於 AMS 等多色設備共同列印，請保留四個零件的位置；它不是帶卡榫的分件組裝版。預設為 X1 Carbon／0.4 mm／PLA，其他設備請先切換成自己的印表機設定。</p>
 <p class="note">這組四色範例切片預估約 <strong>25 小時 32 分、409 g</strong>，包含支撐及換料消耗。讓頭髮與眼鏡共用同一耗材可減少換料；變更配色後請重新切片估算。</p>
-<details><summary>查看背面</summary><img alt="模型背面" src="assets/zongzi_multicolor_100mm/back.png"/></details>
+<details><summary>查看背面</summary><img alt="模型背面" src="assets/zongzi_multicolor_100mm/studio-back.png"/></details>
 <footer>尺寸約 83.67 × 72.47 × 100 mm。外形與原核可版本一致，分色區已完成閉合網格檢查。切片紀錄：<a href="docs/zongzi_multicolor_100mm/slice_validation.json">驗證報告</a>。尚未實體試印。<br/>原本的 <a href="%E7%B2%BD%E5%AD%90%E5%96%AE%E4%BB%B6%E5%96%AE%E8%89%B2_%E6%A8%A1%E5%9E%8B%E9%A0%90%E8%A6%BD.html">單色版本</a> 仍保留。</footer>
 </main><meta content="可愛粽子與萬聖節南瓜小陳晉：3D 列印模型、分件組裝說明與 Bambu X1 Carbon 範例設定。" name="description"/></head></html>
